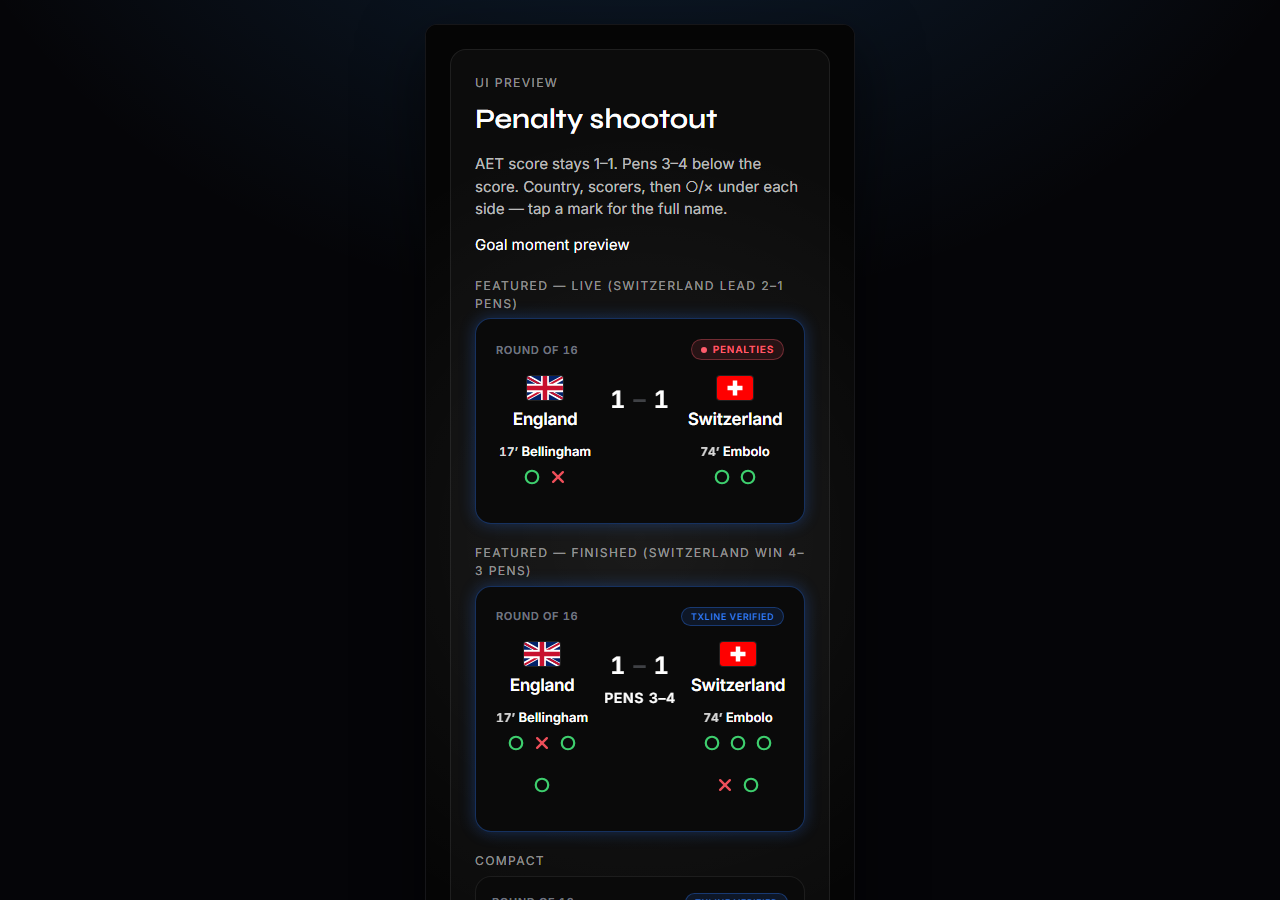
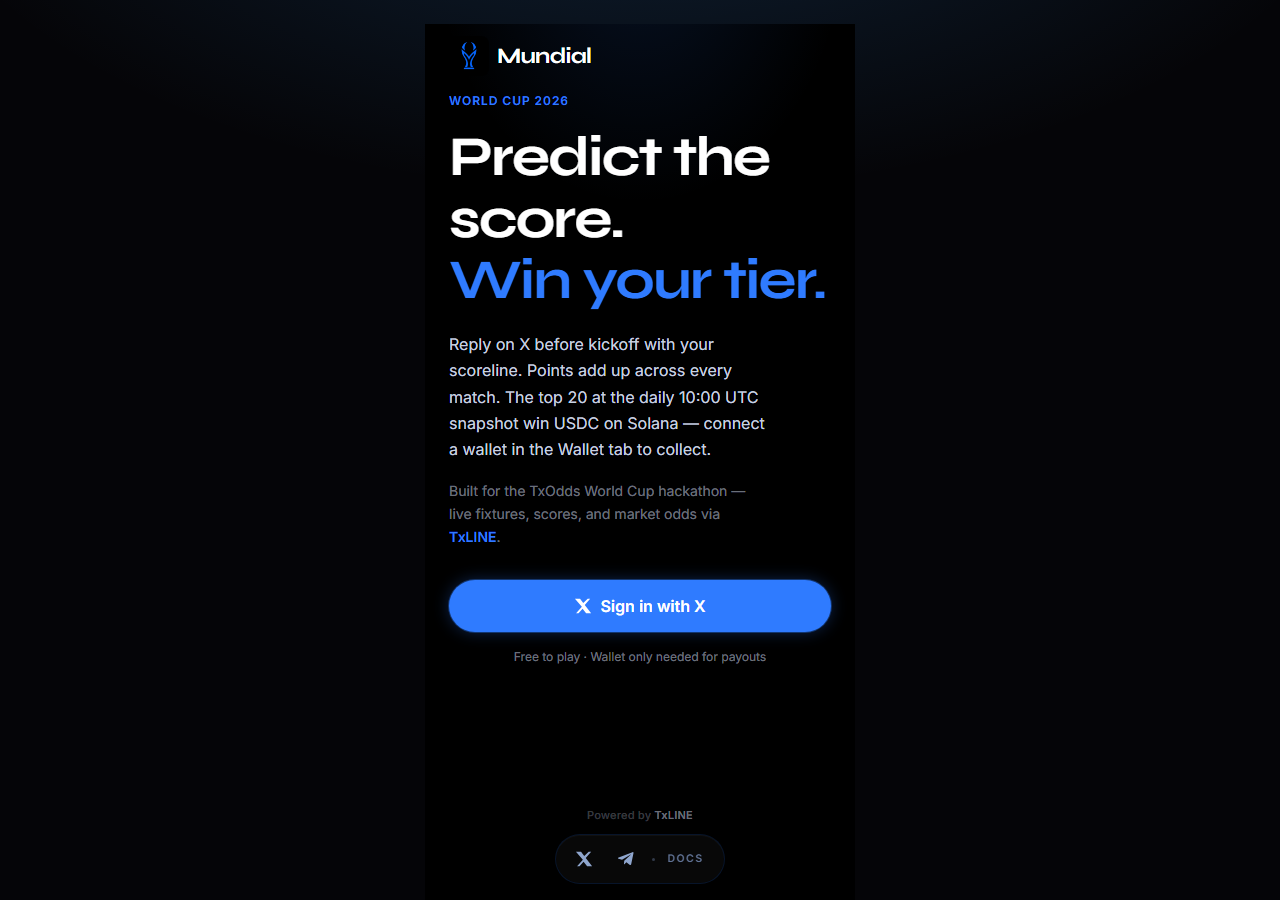
Fix screenshots and proof-preview demo

Changed region(s): [[0.3438, 0.0311, 0.6562, 0.9644], [0.5312, 0.9644, 0.625, 1.0], [0.375, 0.9956, 0.4688, 1.0]]

diff --git a/app/mundial/proof-preview/page.tsx b/app/mundial/proof-preview/page.tsx
@@ -4,42 +4,40 @@ import FixtureCard from "../ui/FixtureCard";
 import type { MundialFixture } from "../lib/fixtures";
 import styles from "../goal-preview/GoalPreview.module.css";
 
-/** Argentina 3–2 Egypt (AET) — production proof for TxFixtureId 18202701. */
+/** Regulation FT demo — goals only in 90 minutes, matches settlement footnote. */
 const DEMO_FIXTURE: MundialFixture = {
-  id: 80,
-  home: "Argentina",
-  away: "Egypt",
-  homeCode: "AR",
-  awayCode: "EG",
-  date: "2026-07-07",
-  time: "16:00",
+  id: 72,
+  home: "France",
+  away: "Morocco",
+  homeCode: "FR",
+  awayCode: "MA",
+  date: "2026-07-05",
+  time: "20:00",
   stage: "Round of 16",
-  venueLine: "AT&T Stadium",
+  venueLine: "MetLife Stadium",
   status: "FT",
   statusLabel: "FT",
-  homeScore: 3,
-  awayScore: 2,
+  homeScore: 2,
+  awayScore: 1,
   elapsed: null,
   phase: "recent",
   goals: [
-    { side: "away", player: "Salah", playerShort: "Salah", minute: 23, ownGoal: false, penalty: false },
-    { side: "home", player: "Messi", playerShort: "Messi", minute: 45, ownGoal: false, penalty: true },
-    { side: "home", player: "Álvarez", playerShort: "Álvarez", minute: 78, ownGoal: false, penalty: false },
-    { side: "home", player: "Lautaro", playerShort: "Lautaro", minute: 112, ownGoal: false, penalty: false },
-    { side: "away", player: "Trezeguet", playerShort: "Trezeguet", minute: 115, ownGoal: false, penalty: false },
+    { side: "away", player: "En-Nesyri", playerShort: "En-Nesyri", minute: 34, ownGoal: false, penalty: false },
+    { side: "home", player: "Griezmann", playerShort: "Griezmann", minute: 58, ownGoal: false, penalty: false },
+    { side: "home", player: "Mbappé", playerShort: "Mbappé", minute: 88, ownGoal: false, penalty: false },
   ],
-  marketOdds: { homePct: 72, drawPct: 18, awayPct: 10 },
-  terminalStatusId: 10,
+  marketOdds: { homePct: 58, drawPct: 24, awayPct: 18 },
+  terminalStatusId: 5,
   txlineProof: {
-    fixtureId: 80,
-    txFixtureId: 18202701,
-    seq: 1045,
+    fixtureId: 72,
+    txFixtureId: 18198201,
+    seq: 980,
     proofTs: null,
-    proofReference: "0x8f3a…c21d",
+    proofReference: "0x4a1c…9f02",
     stats: [
-      { key: 1001, value: 0, period: 100 },
-      { key: 1002, value: 1, period: 100 },
-      { key: 3001, value: 3, period: 100 },
+      { key: 1001, value: 1, period: 100 },
+      { key: 1002, value: 0, period: 100 },
+      { key: 3001, value: 1, period: 100 },
       { key: 3002, value: 1, period: 100 },
     ],
     solanaExplorerUrl: null,
@@ -50,17 +48,17 @@ const DEMO_FIXTURE: MundialFixture = {
     verificationCopy:
       "Regulation proof matches the settled score used for prediction scoring.",
     officialStats: [
-      { key: 1, value: 3, period: 100 },
-      { key: 2, value: 2, period: 100 },
+      { key: 1, value: 2, period: 100 },
+      { key: 2, value: 1, period: 100 },
     ],
     regulationStats: [
-      { key: 1001, value: 0, period: 100 },
-      { key: 1002, value: 1, period: 100 },
-      { key: 3001, value: 3, period: 100 },
+      { key: 1001, value: 1, period: 100 },
+      { key: 1002, value: 0, period: 100 },
+      { key: 3001, value: 1, period: 100 },
       { key: 3002, value: 1, period: 100 },
     ],
-    officialSeq: 1045,
-    regulationSeq: 1045,
+    officialSeq: 980,
+    regulationSeq: 980,
     seqSource: "game_finalised",
   },
 };
@@ -72,9 +70,8 @@ export default function ProofPreviewPage() {
         <p className={styles.eyebrow}>UI preview</p>
         <h1 className={styles.title}>TxLINE verified badge</h1>
         <p className={styles.copy}>
-          FT card after settlement — regulation proof matches{" "}
-          <code>match_state</code> (Argentina 3–2 Egypt AET, TxFixtureId{" "}
-          <code>18202701</code>).
+          FT card after regulation settlement — proof matches{" "}
+          <code>match_state</code> (France 2–1 Morocco, 90 minutes).
         </p>
         <div className={styles.demo}>
           <FixtureCard fixture={DEMO_FIXTURE} featured />

diff --git a/README.md b/README.md
@@ -6,11 +6,11 @@ Score-prediction game on X (Twitter): reply with a scoreline before kickoff, ear
 
 **Live:** [copamundial.app](https://copamundial.app) · **Track:** Superteam × TxODDS — Consumer & Fan Experiences
 
-![Copa Mundial — live fixture card with penalty shootout UI](docs/screenshots/cover.png)
+![Live fixtures board at copamundial.app](docs/screenshots/cover.png)
 
 ## Live usage (production)
 
-Queried **2026-07-08** against production Supabase and the public leaderboard API.
+Queried **2026-07-08** against production Supabase (`whuyptdtrwkzxeunouoo`) and the public leaderboard API.
 
 | Metric | Value |
 |--------|------:|
@@ -20,6 +20,7 @@ Queried **2026-07-08** against production Supabase and the public leaderboard AP
 | Dual proofs in `match_proofs` | 8 (all verified badge) |
 | Goal rows in `match_goals` | 40 |
 | Payout epochs opened (devnet) | 4 |
+| USDC claims logged (`solana_claims`) | see `npx tsx scripts/query-live-usage.ts` |
 | Total points awarded | 872 |
 
 Public leaderboard: `GET /api/leaderboard` → **107** ranked players (top score 33 pts as of query date).
@@ -139,7 +140,7 @@ Event **seq** selection prefers the `game_finalised` record from the scores feed
 
 The **TxLINE verified** badge on an FT card is shown only when the regulation proof exactly matches the settled score in `match_state`. Any mismatch suppresses the badge (`evaluateProofSemantics` in `lib/txScoreProofSemantics.ts`).
 
-![TxLINE verified badge on a settled FT fixture card](docs/screenshots/verified-badge.png)
+![TxLINE verified badge — regulation FT fixture (proof-preview sandbox)](docs/screenshots/verified-badge.png)
 
 **On-chain verification** is reproducible via `scripts/verify-proof.ts`: fetches both proofs, then simulates TxOracle `validate_stat` + `equalTo` against the devnet `daily_scores_roots` Merkle root (`lib/txlineValidateStat.ts`, IDL in `txodds/txoracle-devnet.json`). This is a judge/ops CLI path — not triggered from the fan UI at runtime.
 
@@ -181,6 +182,7 @@ Apply migrations in order on a fresh Supabase project (Dashboard → SQL Editor)
 | 8 | `supabase/migrations/20260704224500_match_goals_penalty.sql` | Penalty flag on goal rows |
 | 9 | `supabase/migrations/20260707100000_match_state_tx_fixture.sql` | Tx fixture id + fixture sync columns |
 | 10 | `supabase/migrations/20260708010000_match_penalty_kicks.sql` | Penalty kick accumulator |
+| 11 | `supabase/migrations/20260708130000_solana_claims.sql` | Devnet USDC claim audit log |
 
 Steps 5–7 can also run via `npx tsx scripts/apply-match-proofs-migrations.ts` when `DATABASE_URL` or `SUPABASE_SERVICE_ROLE_KEY` is set.
 